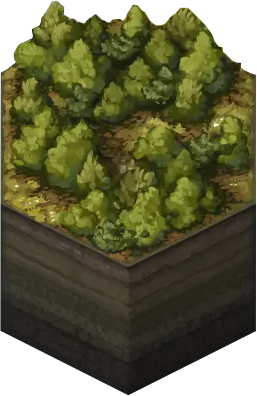
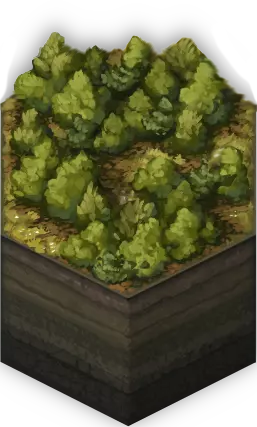
Affichage fixé et amélioré

diff --git a/src/misc/Element.java b/src/misc/Element.java
@@ -6,6 +6,7 @@ import javax.imageio.ImageIO;
 import javax.swing.SwingUtilities;
 import unites.Soldat;
 import java.io.IOException;
+import java.util.LinkedList;
 import java.awt.image.BufferedImage;
 import java.awt.image.RescaleOp;
 import terrains.*;
@@ -19,19 +20,20 @@ public class Element implements wargame.IConfig {
 	private Soldat soldat = null; // le soldat se trouvant sur la case
 	private boolean estVisible = false; // si un héros peux voir cette case
 	private transient BufferedImage sprite = null, spriteSombre = null, buffer = null;
-	private boolean reafficher = false; // Indique s'il faut redessiner l'élément
 	private boolean reafficherDessus = false; // Indique s'il faut réafficher les éléments au dessus de l'élément courant
 	private int drawX, drawY; // Coordonnées d'affichage de l'élément
 	private int deplacementYSoldat = 0; // Depassement du soldat au dessus d'un élément
 	private int nbSoldatVoient = 0; // Le nombre de soldats qui voient l'élément
+	private static LinkedList<Element> fileElem = new LinkedList<>(); // File des éléments à raffraichir
+	private boolean jamaisAffiche = true;
 
 	/**
 	 * Représente un des différents types d'éléments prédéfinies
 	 */
     public enum TypeElement {
-		PLAINE ("plaine", 0.6f, true, true, 0f, -65), DESERT ("desert", 0.2f, true, true, 0.5f, -67), 
-		EAU ("eau", 0.025f, false, true, 0f, -65), MONTAGNE ("montagne", 0.025f, false, false, 0f, -156),
-		FORET ("foret", 0.05f, false, false, 0f, -72);
+		PLAINE ("plaine", 0.6f, true, true, 0f, -65), DESERT ("desert", 0.2f, true, true, 0.5f, -95), 
+		EAU ("eau", 0.025f, false, true, 0f, -60), MONTAGNE ("montagne", 0.025f, false, false, 0f, -195),
+		FORET ("foret", 0.05f, false, false, 0f, -106);
 
 		final String NOM;
 		final float PROBA;
@@ -171,7 +173,7 @@ public class Element implements wargame.IConfig {
 	 */
 	public void setSoldat(Soldat soldat) {
 		this.soldat = soldat;
-		setReafficher(true);
+		setReafficher();
 	}
 
 	/**
@@ -188,7 +190,7 @@ public class Element implements wargame.IConfig {
 		nbSoldatVoient++;
 		if (!estVisible) {
 			estVisible = true;
-			setReafficher(true);
+			setReafficher();
 		}
 	}
 
@@ -200,23 +202,15 @@ public class Element implements wargame.IConfig {
 		if (nbSoldatVoient <= 0) {
 			nbSoldatVoient = 0;
 			estVisible = false;
-			setReafficher(true);
+			setReafficher();
 		}
 	}
 
 	/**
-	 * Indique s'il faut réafficher l'élément ou non
-	 * @param val true s'il faut réafficher, false sinon
+	 * Indique s'il faut réafficher l'élément
 	 */
-	public void setReafficher (boolean val) {
-		reafficher = val;
-	}
-
-	/**
-	 * @return true s'il faut réafficher l'élément, false sinon
-	 */
-	public boolean getReafficher () {
-		return reafficher;
+	private void setReafficher () {
+		if(!jamaisAffiche) fileElem.add(this);
 	}
 
 	/**
@@ -240,7 +234,7 @@ public class Element implements wargame.IConfig {
 		Thread t = new Thread(r);
 		t.start();
 
-		reafficher = false;
+		jamaisAffiche = false;
 	}
 
 	/**
@@ -381,9 +375,12 @@ public class Element implements wargame.IConfig {
 	 * @param tabHitbox le tableau des hitbox de la carte
 	 * @param carte la carte sur laquelle se trouve l'élément
 	 */
-	public void reafficher (Graphics g, byte[][][] tabHitbox, Carte carte) {
-		int deplacementOuest = 0, deplacementEst = 0;
+	private void reafficher (Graphics g, byte[][][] tabHitbox, Carte carte) {
+		int deplacementOuest = 0, deplacementEst = 0, w = getSprite().getWidth(),
+			h = getSprite().getHeight();
 		Element tmp;
+		Position posTmp = new Position();
+		BufferedImage img;
 
 		// La position des éléments au dessus et en dessous dépend de la position de l'élément courant
 		if (getPos().getX() % 2 == 0) deplacementEst = 1;
@@ -391,17 +388,28 @@ public class Element implements wargame.IConfig {
 
 		// On réaffiche les parties basses des éléments au dessus de l'élément courant
 		if (reafficherDessus) {
-			tmp = carte.getElement(getPos().getX()-1, getPos().getY()+deplacementOuest); // Element nord-ouest
-			if (tmp != null) tmp.dessinerQuart(g, tabHitbox, 2); 
-			tmp = carte.getElement(getPos().getX()-1, getPos().getY()+deplacementEst); // Element nord-est
-			if (tmp != null) tmp.dessinerQuart(g, tabHitbox, 3); 
+			// Element nord-ouest
+			posTmp.set(getPos().getX()-1, getPos().getY()+deplacementOuest);
+			if (posTmp.estValide()) {
+				tmp = carte.getElement(posTmp);
+				if (tmp != null) tmp.dessinerQuart(g, tabHitbox, 2); 
+			}
+			// Element nord-est
+			posTmp.set(getPos().getX()-1, getPos().getY()+deplacementEst);
+			if (posTmp.estValide()) {
+				tmp = carte.getElement(posTmp); 
+				if (tmp != null) tmp.dessinerQuart(g, tabHitbox, 3); 
+			}
 			reafficherDessus = false;
 		}
 
 		// On réaffiche l'élément courant
-		if (estVisible) 
-			g.drawImage(getSprite(), drawX, drawY+type.DEPLACEMENTVERT, drawX+getSprite().getWidth(), drawY+190, 0, 0, getSprite().getWidth(), -type.DEPLACEMENTVERT+190, null);
-		else g.drawImage(spriteSombre, drawX, drawY+type.DEPLACEMENTVERT, drawX+spriteSombre.getWidth(), drawY+190, 0, 0, spriteSombre.getWidth(), -type.DEPLACEMENTVERT+190, null);
+		if (estVisible) img = getSprite();
+		else img = spriteSombre;
+
+		g.drawImage(img, drawX, drawY+type.DEPLACEMENTVERT, 
+					drawX+w, drawY+190, 
+					0, 0, w, -type.DEPLACEMENTVERT+190, null);
 
 		afficherSoldat(g, drawX, drawY);
 
@@ -411,12 +419,38 @@ public class Element implements wargame.IConfig {
 		t.start();
 
 		// On réaffiche les parties hautes des élément au dessous de l'élément courant
-		tmp = carte.getElement(getPos().getX()+1, getPos().getY()+deplacementOuest); // Element sud-ouest
-		if (tmp != null) tmp.dessinerQuart(g, tabHitbox, 1); 
-		tmp = carte.getElement(getPos().getX()+1, getPos().getY()+deplacementEst); // Element sud-est
-		if (tmp != null) tmp.dessinerQuart(g, tabHitbox, 0); 
 
-		setReafficher(false);
+		// Element sud-ouest
+		posTmp.set(getPos().getX()+1, getPos().getY()+deplacementOuest);
+		if (posTmp.estValide()) {
+			tmp = carte.getElement(posTmp); 
+			if (tmp != null) tmp.dessinerQuart(g, tabHitbox, 1); 
+		} else {
+			// On réaffiche la partie "souterraine" gauche de l'élément
+			g.drawImage(img, drawX, drawY+130, 
+						drawX+w/2, drawY+type.DEPLACEMENTVERT+h, 
+						0, -type.DEPLACEMENTVERT+130, 
+						w/2, h, null);
+		}
+
+		// Element sud-est
+		posTmp.set(getPos().getX()+1, getPos().getY()+deplacementEst);
+		if (posTmp.estValide()) {
+			tmp = carte.getElement(posTmp); 
+			if (tmp != null) tmp.dessinerQuart(g, tabHitbox, 0); 
+		} else {
+			// On réaffiche la partie "souterraine" droite de l'élément
+			g.drawImage(img, drawX+w/2, drawY+130, 
+						drawX+w, drawY+type.DEPLACEMENTVERT+h, 
+						w/2, -type.DEPLACEMENTVERT+130, 
+						w, h, null);
+		}
+	}
+
+	public static void reafficherFile (Graphics g, byte[][][] tabHitbox, Carte carte) {
+		while (!fileElem.isEmpty()) {
+			fileElem.removeFirst().reafficher(g, tabHitbox, carte);
+		}
 	}
 
 	/**

diff --git a/src/ui/PanneauJeu.java b/src/ui/PanneauJeu.java
@@ -6,11 +6,11 @@ import java.awt.geom.AffineTransform;
 import java.awt.image.BufferedImage;
 import java.io.IOException;
 import java.io.InputStream;
-import java.security.Key;
 import java.util.ArrayList;
 import misc.Parametres;
 
 import javax.imageio.ImageIO;
+import misc.Element;
 import javax.swing.*;
 import terrains.Carte;
 import misc.Position;
@@ -215,7 +215,9 @@ public class PanneauJeu extends JPanel implements wargame.IConfig, MouseWheelLis
                 try { curseurMap = getPosCurseurPlateau(); }
                 catch (NullPointerException ex) { return; }
                 Position pos = new Position(tabHitbox[curseurMap.y][curseurMap.x][0] & 0xFF, tabHitbox[curseurMap.y][curseurMap.x][1] & 0xFF);
-   
+                System.out.println(pos.toString());
+
+                carte.getElement(pos).setVisible();
 
                 if (pos1 == null) pos1 = pos;
                 else {
@@ -415,11 +417,11 @@ public class PanneauJeu extends JPanel implements wargame.IConfig, MouseWheelLis
                 // On crée l'image sur laquelle le plateau sera dessiné
                 plateau = new BufferedImage(wPlateau, hPlateau, BufferedImage.TYPE_INT_RGB);
                 // On dessine le plateau sur l'image
-                carte.afficher(plateau.getGraphics(), tabHitbox, false);
+                carte.afficher(plateau.getGraphics(), tabHitbox);
             }
         } else {
             // On Met à jour le plateau sur l'image
-            carte.afficher(plateau.getGraphics(), tabHitbox, true);
+            Element.reafficherFile(plateau.getGraphics(), tabHitbox, carte);
         }
 
         // On affiche le fond

diff --git a/src/terrains/Carte.java b/src/terrains/Carte.java
@@ -267,10 +267,9 @@ public class Carte implements wargame.IConfig, wargame.ICarte {
      * Affiche sur g tous les éléments constituant la carte courante
      * @param g un object graphique quelconque
      * @param tabHitbox le tableau des hitbox
-     * @param reafficher true s'il suffit de réafficher les éléments marqués par setReafficher(true)
      * @see Element#setReafficher(boolean)
      */
-    public void afficher (Graphics g, byte[][][] tabHitbox, boolean reafficher) {
+    public void afficher (Graphics g, byte[][][] tabHitbox) {
         int i, j, x, y;
         
         // lignes
@@ -281,10 +280,7 @@ public class Carte implements wargame.IConfig, wargame.ICarte {
                 y = MARGY + i*TAILLEY;   
                 if (i%2 == 0) x += TAILLEX/2;
                 
-                if (reafficher) {
-                    if (grille[i][j].getReafficher())
-                        grille[i][j].reafficher(g, tabHitbox, this);
-                } else grille[i][j].afficher(g, x, y, tabHitbox);  
+                grille[i][j].afficher(g, x, y, tabHitbox);  
             }
         }
     }

diff --git a/src/ui/TranslucentButton.java b/src/ui/TranslucentButton.java
@@ -145,7 +145,7 @@ public class TranslucentButton extends JButton implements wargame.IConfig {
             }
         }
         // Préparation de la forme du rectangle 
-        Shape area = new RoundRectangle2D.Float(x, y, w-1, h-1, r, r);
+        Shape area = new RoundRectangle2D.Float(x, y, w-1.f, h-1.f, r, r);
         // Préparation des couleurs
         ButtonModel m = getModel();
         if (m.isPressed()) { // Clic 
@@ -159,7 +159,7 @@ public class TranslucentButton extends JButton implements wargame.IConfig {
             bgc = BR;
         }
         // Affichage
-        g2.setPaint(new GradientPaint(x, y, ssc, x, y+h, bgc, true));
+        g2.setPaint(new GradientPaint(x, y, ssc, x, (float) y+h, bgc, true));
         g2.fill(area);
         g2.setPaint(BR);
         g2.draw(area);

diff --git a/src/wargame/IConfig.java b/src/wargame/IConfig.java
@@ -37,7 +37,7 @@ public interface IConfig {
 	float ALPHAELEMCACHE = 0.5f; // Transparence des éléments cachés du plateau
 	Color COULEURPDV = new Color(255, 150, 150); // Couleur de la barre de PDV
 	/* Plateau de jeu */
-	int TAILLEX = 257, TAILLEY = 194; // Tailles des sprite élément
+	int TAILLEX = 256, TAILLEY = 194; // Tailles des sprite élément
 	int MARGX = TAILLEX*2, MARGY = TAILLEY*2; // Marges horizontales et verticales sur la carte
 	int DEPLACEMENTCLAVIER = 30; // Nombre de pixels à déplacer par appui des flèches du clavier
 }

diff --git a/src/misc/Position.java b/src/misc/Position.java
@@ -5,10 +5,15 @@ import wargame.IConfig;
 public class Position implements IConfig {
 	private int x, y;
 	public Position(int x, int y) { this.x = x; this.y = y; }
+	public Position() {  }
 	public int getX() { return x; }
 	public int getY() { return y; }
 	public void setX(int x) { this.x = x; }
 	public void setY(int y) { this.y = y; }
+	public void set(int x, int y) {
+		this.x = x;
+		this.y = y;
+	}
 	/**
 	 * @return true si la position est bien dans les limites de la carte, false sinon
 	 */
